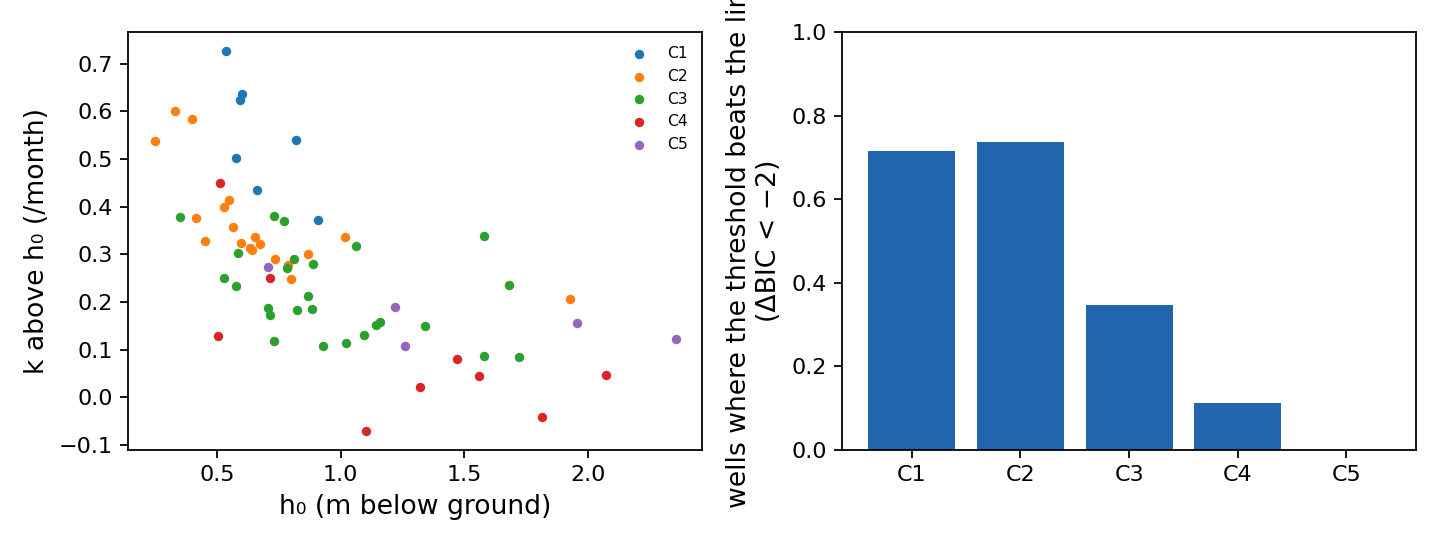
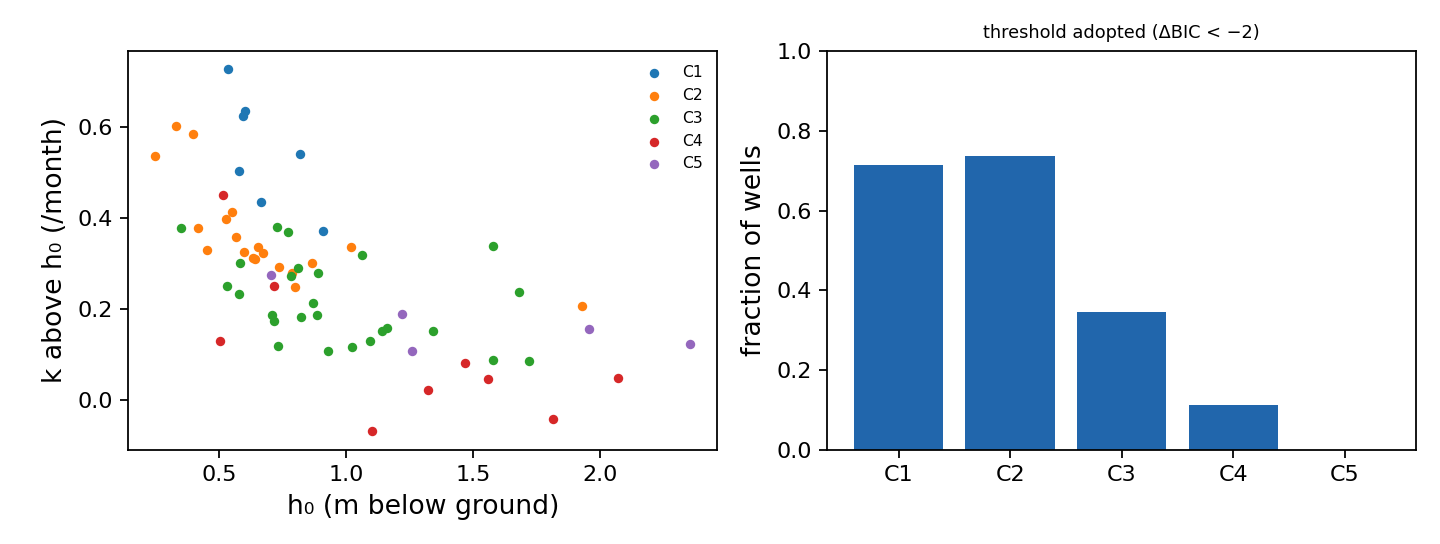
Script 55 1.1.0: a figure for the §7.1 share, and 55_02's clipped label
Martin, 2026-11-05, reading 55_02 and 55_05 side by side: "fix the stage b fig b
axis label. draw the share figure."

THE LABEL. 55_02's right panel carried a two-line ROTATED ylabel, and
tight_layout does not rescue one: the final letter ran off the canvas, measured
as dark pixels in row 0 at x=730-732. The condition moves to the panel title,
where it fits on one line, and the ylabel becomes "fraction of wells". Both
figures are now clear on all four edges, checked.

THE SHARE FIGURE is 55_06_drainage_share.png (OUT_55_SHARE_FIG, paths.py
1.86.0): the Paper M 7.1 quantity itself, per cluster, with the Stage I Sy
bracket. It needed no new computation - the per-well drainage_share_sy_lo/_hi
columns already existed - so no number is new and none moved. All 83 report
numbers are identical to the digit after the re-run.

The bracket is drawn as a span, not an error bar, because it is neither a
confidence interval nor centred on the bar: the Stage I bounds mostly lie below
the fluctuation-method Sy, a smaller Sy books less storage, and the share rises.
At C2-C5 it sits wholly ABOVE the published value. C1 STRADDLES it, 0.209-0.608
against 0.472 - which is where D-305 predicts the exception, C1 being the
cluster it records as most sensitive to what this balance cannot settle. My
first docstring asserted "above at every cluster"; the figure showed otherwise
and it was corrected before the re-run.

Re-run as run_analysis.py --step 55, which is safe here: Script 55 writes no row
[…]

diff --git a/src/55_water_balance_drainage.py b/src/55_water_balance_drainage.py
@@ -70,7 +70,11 @@ Run directly:  python3 src/55_water_balance_drainage.py [--no-fig]
 """
 from __future__ import annotations
 
-__version__ = "1.0.0"  # Hollingham (2026) - 2026-11-05. First issue (spec
+__version__ = "1.1.0"  # Hollingham (2026) - 2026-11-05, after Martin read 55_02: the §7.1 drainage
+#   share gets a figure of its own (55_06, per cluster with the Stage I Sy bracket, which sits ABOVE the
+#   published value because both bounds lie below the fluctuation-method Sy), and 55_02's right-panel
+#   label no longer runs off the canvas - a two-line rotated ylabel that tight_layout did not rescue.
+# 1.0.0  # Hollingham (2026) - 2026-11-05. First issue (spec
 #   NRG_spec_water_balance_diagnostic_2026-11-04, D1-D11; Martin 2026-11-04 "take a basic water balance ...
 #   and regress that residual on head to get a drainage rate"). Per-cluster and network statistics are
 #   per-well MEDIANS, matching the modelab_drainage_share_*_median_* fields this step is quoted beside
@@ -91,7 +95,7 @@ from utils import paths                                       # noqa: E402
 from utils.paths import (                                     # noqa: E402
     DIR_55, OUT_55_SURPLUS_VS_DH, OUT_55_SURPLUS_FIG, OUT_55_LAW_PER_WELL, OUT_55_LAW_BY_CLUSTER,
     OUT_55_LAW_FIG, OUT_55_WATER_BALANCE, OUT_55_WINTER_LAW_ET, OUT_55_ET_MONTHLY,
-    OUT_55_ET_VS_PET_FIG, OUT_55_SENSITIVITY, OUT_55_INTERCEPTION_SCAN, OUT_55_SPLIT_SAMPLE,
+    OUT_55_ET_VS_PET_FIG, OUT_55_SHARE_FIG, OUT_55_SENSITIVITY, OUT_55_INTERCEPTION_SCAN, OUT_55_SPLIT_SAMPLE,
     OUT_55_CCW_HINDCAST, OUT_55_DRY_LAW_PER_WELL, OUT_55_DRY_LAW_BY_CLUSTER,
     OUT_55_WINTER_SY_PER_WELL, OUT_55_WINTER_SY_CLUSTER, OUT_55_WINTER_SY_FIG,
     OUT_55_REPORT_NUMBERS, INT_CLIMATE, INT_WELLS_REFERENCE, INT_MASTER_DATA,
@@ -877,7 +881,11 @@ def plot_law(per: pd.DataFrame) -> None:
     ax = axes[1]
     w = per.groupby("Cluster")["threshold_beats_line"].agg(["sum", "size"])
     ax.bar([f"C{k}" for k in w.index], w["sum"] / w["size"], color="#2166ac")
-    ax.set_ylabel(f"wells where the threshold beats the line\n(ΔBIC < −{WB_BIC_MARGIN})")
+    # 1.1.0: this was a two-line ROTATED label, and tight_layout does not rescue it - the final
+    # letter ran off the top of the canvas (measured 2026-11-05: dark pixels in row 0). The
+    # condition moves to the title, where it has the width to sit on one line.
+    ax.set_ylabel("fraction of wells")
+    ax.set_title(f"threshold adopted (ΔBIC < −{WB_BIC_MARGIN})", fontsize=8)
     ax.set_ylim(0, 1)
     fig.tight_layout()
     fig.savefig(OUT_55_LAW_FIG)
@@ -900,6 +908,44 @@ def plot_et(dper: pd.DataFrame) -> None:
     ax.legend(fontsize=7, frameon=False)
     fig.tight_layout()
     fig.savefig(OUT_55_ET_VS_PET_FIG)
+    plt.close(fig)
+
+
+def plot_share(dper: pd.DataFrame, dby: pd.DataFrame, share_med: float) -> None:
+    """The §7.1 quantity itself: the drainage share of the annual loss per cluster, each with the
+    Stage I specific-yield bracket, against the network median.
+
+    The bracket is NOT a confidence interval and is not centred on the bar, so it is drawn as a
+    span rather than an error bar. The Stage I bounds mostly lie below the fluctuation-method Sy
+    (D-306), and a smaller Sy books less storage and so a larger drainage share: at C2, C3, C4 and
+    C5 the bracket therefore sits wholly ABOVE the published value (C3, for instance, 0.398-0.557
+    against 0.301). C1 is the exception and STRADDLES it, 0.209-0.608 against 0.472 - the same
+    cluster D-305 records as the one most sensitive to choices this balance cannot settle, so the
+    exception is where that reading predicts it.
+    """
+    plt = _plt()
+    fig, ax = plt.subplots(figsize=(5.6, 3.4), dpi=160)
+    ks = [int(k) for k in dby["Cluster"]]
+    x = np.arange(len(ks))
+    bars = [float(v) for v in dby["drainage_share_median"]]
+    ax.bar(x, bars, width=0.56, color="#2166ac", zorder=2, label="published (Script 18 Sy)")
+    for i, k in enumerate(ks):
+        g = dper[dper["Cluster"] == k]
+        lo, hi = g["drainage_share_sy_lo"].median(), g["drainage_share_sy_hi"].median()
+        if not (np.isfinite(lo) and np.isfinite(hi)):
+            continue
+        a, b = sorted((float(lo), float(hi)))
+        ax.plot([x[i], x[i]], [a, b], color="#b2182b", lw=5, solid_capstyle="butt",
+                alpha=0.55, zorder=3, label="Stage I Sy bracket" if i == 0 else None)
+    ax.axhline(share_med, color="0.25", lw=1.0, ls="--", zorder=4,
+               label=f"network median {share_med:.3f}")
+    ax.set_xticks(x)
+    ax.set_xticklabels([f"C{k}" for k in ks])
+    ax.set_ylabel("drainage share of the annual loss")
+    ax.set_ylim(0, 1)
+    ax.legend(fontsize=7, frameon=False, loc="upper right")
+    fig.tight_layout()
+    fig.savefig(OUT_55_SHARE_FIG)
     plt.close(fig)
 
 
@@ -1065,6 +1111,7 @@ def main() -> int:
         plot_surplus(wells, cl, sy, a); saved(OUT_55_SURPLUS_FIG.name)
         plot_law(bper); saved(OUT_55_LAW_FIG.name)
         plot_et(dper); saved(OUT_55_ET_VS_PET_FIG.name)
+        plot_share(dper, dby, share_med); saved(OUT_55_SHARE_FIG.name)
         plot_winter_sy(iper); saved(OUT_55_WINTER_SY_FIG.name)
 
     phase(11, "Report numbers")

diff --git a/src/utils/paths.py b/src/utils/paths.py
@@ -11,7 +11,9 @@ Intermediate files (read by downstream scripts) live in OUT_DIR root.
 Final outputs (figures, tables, reports) live in per-script subfolders.
 """
 
-__version__ = "1.85.0"  # Hollingham (2026) - 2026-11-05. Script 55 1.0.0 (the water-balance residual analysis):
+__version__ = "1.86.0"  # Hollingham (2026) - 2026-11-05. OUT_55_SHARE_FIG for Script 55 1.1.0:
+#   the §7.1 drainage share per cluster with the Stage I Sy bracket, asked for by Martin after reading 55_02. Additive.
+# 1.85.0  # Hollingham (2026) - 2026-11-05. Script 55 1.0.0 (the water-balance residual analysis):
 #   DIR_55 and its outputs; and OUT_18_WELL_SY_BY_WINDOW for Script 18 1.19.0's windowed mode (D8). Additive.
 # 1.84.0  # Hollingham (2026) - 2026-11-03. D-296 retirement pass: removed OUT_14B_PER_WELL_TRENDS, OUT_14B_CROSSING_COUNTS, OUT_14B_PER_WELL_FIG, OUT_14B_REPORT_NUMBERS
 #   (Script 14b 2.0.0); OUT_14_PER_WELL_EXTREMES, OUT_14_PER_WELL_BAND_COUNTS, OUT_14_PER_WELL_BANDS_FIG, OUT_14_WINTER_EXCEED (Script 14 1.14.0);
@@ -1757,6 +1759,7 @@ OUT_55_WATER_BALANCE      = DIR_55 / "55_04_water_balance.csv"             # C: 
 OUT_55_WINTER_LAW_ET      = DIR_55 / "55_05_winter_law_et.csv"             # D: winter law, ET backed out
 OUT_55_ET_MONTHLY         = DIR_55 / "55_06_et_monthly.csv"
 OUT_55_ET_VS_PET_FIG      = DIR_55 / "55_05_et_vs_pet.png"
+OUT_55_SHARE_FIG          = DIR_55 / "55_06_drainage_share.png"   # D: the §7.1 share, with the Stage I Sy bracket
 OUT_55_SENSITIVITY        = DIR_55 / "55_07_sensitivity.csv"               # E: CEH11, below-ground, Script 17 Sy
 OUT_55_INTERCEPTION_SCAN  = DIR_55 / "55_08_interception_scan.csv"         # F: forest closure scan
 OUT_55_SPLIT_SAMPLE       = DIR_55 / "55_09_split_sample.csv"              # G: Script 48's rule, windowed Sy

diff --git a/notes/ledgers/SCRIPT_LEDGER.md b/notes/ledgers/SCRIPT_LEDGER.md
@@ -189,6 +189,6 @@ the row's adjudication says so.
 | 51 | 51_cluster_gap_fill.py | 1.1.0 | 01_wells_reference.csv, 01_wells_extended.csv, 01_climate.csv, 06_pear_membership_audit_sitewide.csv, data/well_metadata.csv (coordinates); data/ccw_1989_1996_depths.csv and data/ccw_1989_1996_code_map.csv (via utils/hindcast_utils.load_ccw; Part 1 skipped when absent); data/ccw_similarity_groups_martin.csv (Martin's CCW chart groups, a documented raw-input exception) | 51_01_ccw_cross_decade.csv, 51_02_ccw_martin_groups.csv, 51_03_gapfill_holdout.csv, 51_04_gapfill_scores.csv, 51_05_gapfill_reconstructed_monthly.csv, 51_06_gapfill_pairs.csv, 51_08_gapfill_reconstructed_monthly_partial.csv, 51_09_gapfill_pairs_partial.csv, 51_report_numbers.csv | 51_07_cluster_gap_fill.png (held-out spring-level error by rule and window; error against donor distance; the CCW 1989-96 grouping against the modern clusters) | — | **OK** |
 | 53 | 53_ccw_forest_drift.py | 1.0.0 | 03_master_data.csv, 03_15_per_well_window_sensitivity.csv, 01_climate.csv, 39_02_hindcast_series.csv (the reproduction check), data/well_metadata.csv, data/geo/forest_boundary.geojson; data/ccw_1989_1996_depths.csv and data/ccw_1989_1996_code_map.csv (via utils/hindcast_utils; skipped when absent) | 53_01_per_well_slopes.csv, 53_02_tests.csv, 53_03_leave_one_out.csv, 53_04_dating_profile.csv, 53_report_numbers.csv | 53_05_forest_side_drift.png (CCW residual by month, near against far; drift against distance to the forest edge) | — | **OK** |
 | 54 | 54_dry_year_hysteresis.py | 1.0.0 | 01_climate.csv, 01_wells_reference.csv, 01_wells_extended.csv, 03_master_data.csv (cluster membership), 50_report_numbers.csv (the E13 reproduction check) | 54_01_hydrological_years.csv, 54_02_windows.csv, 54_03_responses_by_cluster.csv, 54_04_tests.csv, 54_05_residual_monthly.csv, 54_report_numbers.csv | 54_06_dry_year_hysteresis.png (residual by cluster with the dry-to-wet and control windows shaded) | — | **OK** |
-| 55 | 55_water_balance_drainage.py | 1.0.0 | 01_climate.csv, 01_wells_reference.csv, 18_wtf_01_well_sy_estimates.csv (the per-well FIXED Sy — no default is substituted when it is absent), 18_wtf_06_well_sy_by_window.csv (Stage G's windowed Sy), 17_wtf_01_sy_estimates.csv (Stage E's cluster-Sy sensitivity), 48_04_model_a_b_diagnostics.csv (Model A/B split-sample scores), 03_master_data.csv; data/ccw_1989_1996_depths.csv and data/ccw_1989_1996_code_map.csv (via utils/hindcast_utils; the hindcast is skipped when absent) | 55_01_surplus_vs_dh.csv, 55_02_drainage_law_per_well.csv, 55_03_drainage_law_by_cluster.csv, 55_04_water_balance.csv, 55_05_winter_law_et.csv, 55_06_et_monthly.csv, 55_07_sensitivity.csv, 55_08_interception_scan.csv, 55_09_split_sample.csv, 55_10_ccw_hindcast.csv, 55_11_dry_month_law_per_well.csv, 55_12_dry_month_law_by_cluster.csv, 55_13_winter_sy_per_well.csv, 55_14_winter_sy_by_cluster.csv, 55_report_numbers.csv | 55_01_surplus_vs_dh.png (the cluster-mean month and its apparent Sy), 55_02_drainage_law.png (k against h₀, and where the threshold beats the line), 55_05_et_vs_pet.png (backed-out ET/PET, summer against year), 55_13_winter_sy_bracket.png (the winter joint-fit Sy bracket beside the WTF Sy) | MS | **OK** |
+| 55 | 55_water_balance_drainage.py | 1.1.0 | 01_climate.csv, 01_wells_reference.csv, 18_wtf_01_well_sy_estimates.csv (the per-well FIXED Sy — no default is substituted when it is absent), 18_wtf_06_well_sy_by_window.csv (Stage G's windowed Sy), 17_wtf_01_sy_estimates.csv (Stage E's cluster-Sy sensitivity), 48_04_model_a_b_diagnostics.csv (Model A/B split-sample scores), 03_master_data.csv; data/ccw_1989_1996_depths.csv and data/ccw_1989_1996_code_map.csv (via utils/hindcast_utils; the hindcast is skipped when absent) | 55_01_surplus_vs_dh.csv, 55_02_drainage_law_per_well.csv, 55_03_drainage_law_by_cluster.csv, 55_04_water_balance.csv, 55_05_winter_law_et.csv, 55_06_et_monthly.csv, 55_07_sensitivity.csv, 55_08_interception_scan.csv, 55_09_split_sample.csv, 55_10_ccw_hindcast.csv, 55_11_dry_month_law_per_well.csv, 55_12_dry_month_law_by_cluster.csv, 55_13_winter_sy_per_well.csv, 55_14_winter_sy_by_cluster.csv, 55_report_numbers.csv | 55_01_surplus_vs_dh.png (the cluster-mean month and its apparent Sy), 55_02_drainage_law.png (k against h₀, and where the threshold beats the line), 55_05_et_vs_pet.png (backed-out ET/PET, summer against year), 55_06_drainage_share.png (the §7.1 drainage share per cluster, with the Stage I Sy bracket), 55_13_winter_sy_bracket.png (the winter joint-fit Sy bracket beside the WTF Sy) | MS | **OK** |
 
 *(Not rows: `gen_grid_lay.py`, `run_09_scraping.py`, `run_10_clearfell.py` — utility/orchestration.)*

diff --git a/notes/ledgers/PROVENANCE_LEDGER.md b/notes/ledgers/PROVENANCE_LEDGER.md
@@ -194,7 +194,7 @@
 | `fig_scraping_summer_minima.jpg` | Paper 2 | Figure 2 | CEH36 vs CEH4 paired summer minima |
 | `fig_summer_minima_violin.jpg` | Paper 2 | Figure 4 | Summer-minimum distributions by tier |
 
-## Outputs no exhibit renders (561)
+## Outputs no exhibit renders (562)
 
 *Not a fault on its own — most outputs are intermediates. Listed so that an output which SHOULD be on a page is visible when it is not.*
 
